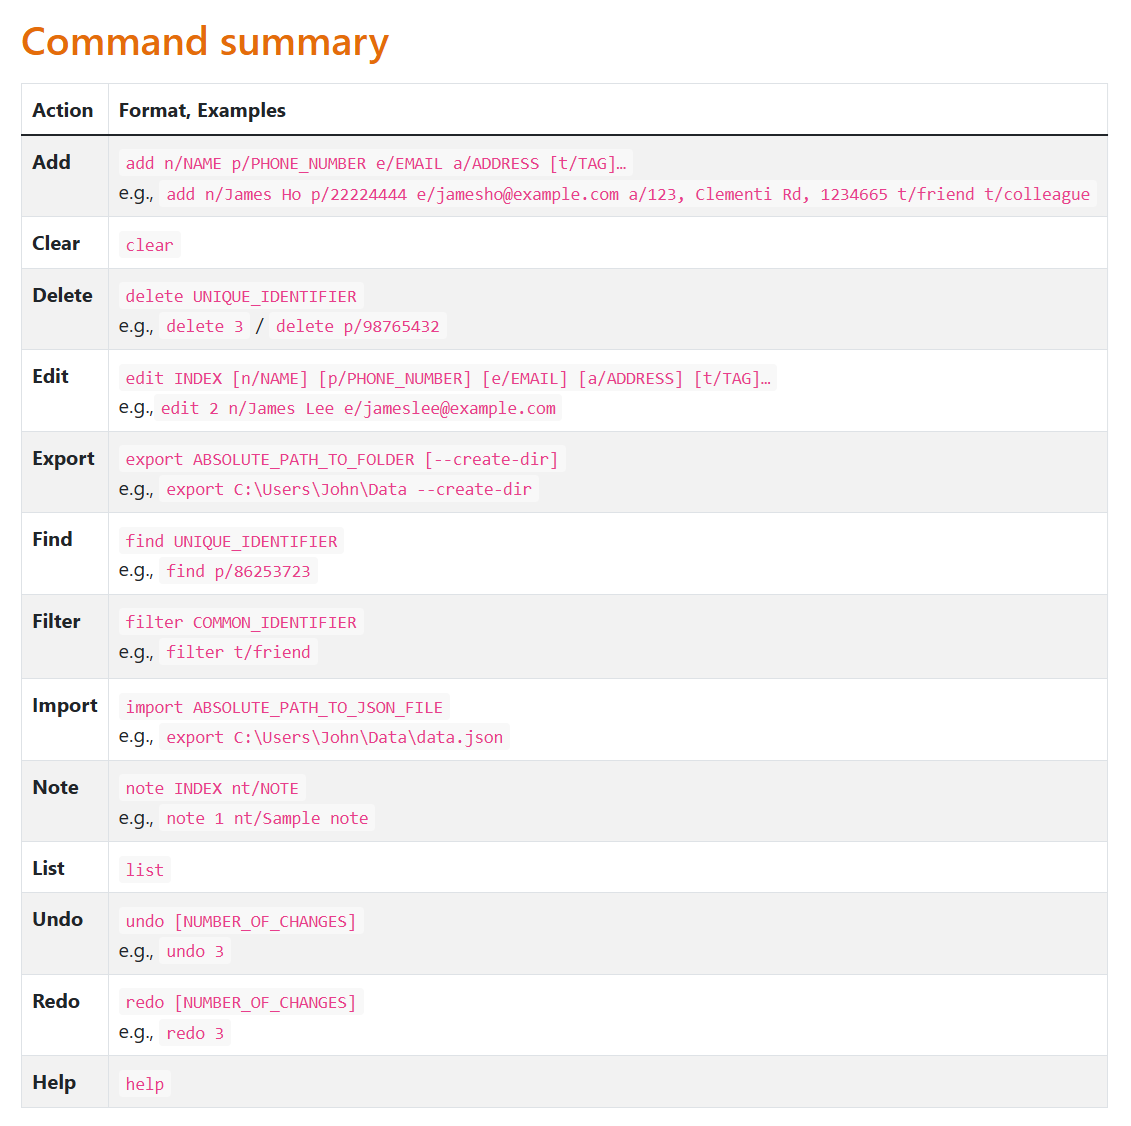
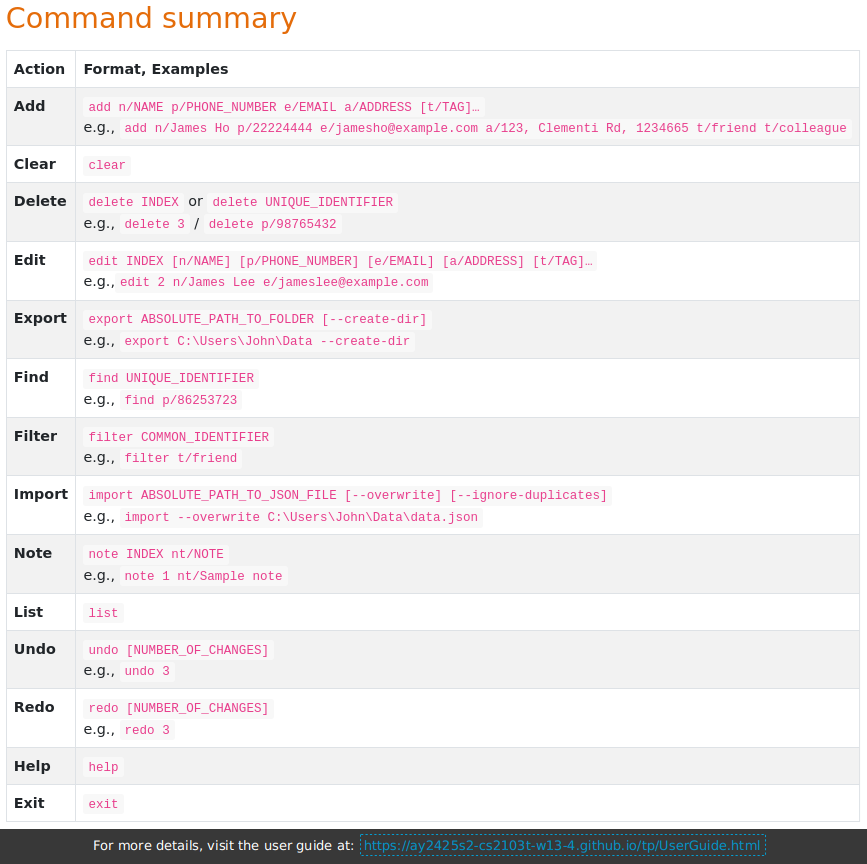
Update help message to include exit

diff --git a/docs/UserGuide.md b/docs/UserGuide.md
@@ -437,9 +437,9 @@ Clears all entries from the address book.
 
 Format: `clear`
 
-### Exiting the program : `exit`
+### Exiting the app : `exit`
 
-Exits the program.
+Exits the CraftConnect app.
 
 Format: `exit`
 
@@ -493,3 +493,4 @@ in this computer.
 | **Undo**   | `undo [NUMBER_OF_CHANGES]`<br> e.g., `undo 3`                                                                                                                         |
 | **Redo**   | `redo [NUMBER_OF_CHANGES]`<br> e.g., `redo 3`                                                                                                                         |
 | **Help**   | `help`                                                                                                                                                                |
+| **Exit**   | `exit`                                                                                                                                                                |
